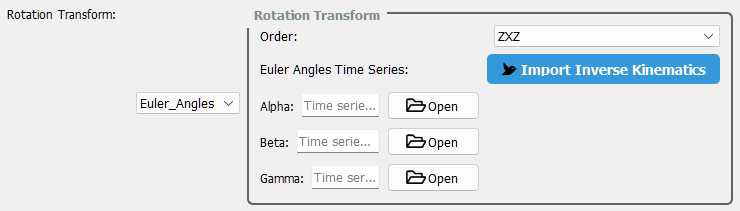
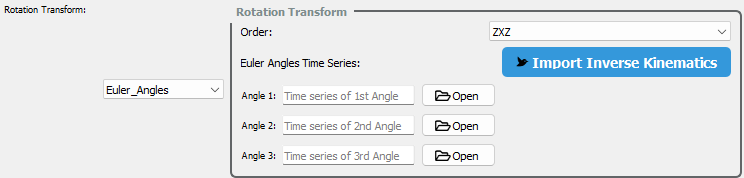
Documentation Review done

Changed region(s): [[0.1243, 0.0281, 1.0, 1.0], [0.0, 0.0281, 0.1554, 0.1124]]

diff --git a/docs/user_guide/methodology.rst b/docs/user_guide/methodology.rst
@@ -3,7 +3,7 @@
 Methodology
 ===========
 
-The **Flapkine** application is a Python-based open-source framework designed to simulate **flapping kinematics** in biomimetic systems. It combines object-oriented architecture, STL-based geometry, and user-defined kinematic models to create rich, interactive 3D simulations.
+The **Flapkine** application is a Python-based open-source framework designed to simulate **flapping wing kinematics** in biomimetic systems. It combines object-oriented architecture, STL-based geometry, and user-defined kinematic models to create rich, interactive 3D simulations.
 
 Flapkine is structured into modular components, each specializing in a distinct stage of simulation — from object loading and transformation to scene assembly and time-series playback.
 
@@ -18,7 +18,6 @@ The core design philosophy of Flapkine is to offer an **intuitive, reusable, and
 
 - Rigid body transformations (translation + rotation)
 - Deformable transformations (flexible flapping motion)
-- Time-dependent playback via animation logic
 
 Its GUI offers researchers a no-code interface to interactively define, preview, and export kinematic models.
 
@@ -92,7 +91,7 @@ Each project contains exactly one inertial frame, associated with the single `Sc
 
   - :math:`O_{E}` is the origin of the inertial frame.
 
-  - :math:`\hat{\mathbf{e}}_{1}, \hat{\mathbf{e}}_{2}, \hat{\mathbf{e}}_{3}` are its unit basis vectors.
+  - :math:`\hat{\mathbf{e}}_{1}, \hat{\mathbf{e}}_{2}, \hat{\mathbf{e}}_{3}` are its unit basis vectors. (In app these are shown as `X`, `Y` and `Z`)
 
 Body Frame
 ^^^^^^^^^^
@@ -102,7 +101,7 @@ The **body frame** is the local coordinate system attached to each `Object3D` an
 
   - :math:`O_{B}` is the origin of the body frame.
 
-  - :math:`\hat{\mathbf{b}}_{1}, \hat{\mathbf{b}}_{2}, \hat{\mathbf{b}}_{3}` are its unit basis vectors.
+  - :math:`\hat{\mathbf{b}}_{1}, \hat{\mathbf{b}}_{2}, \hat{\mathbf{b}}_{3}` are its unit basis vectors. (In app these are shown as `A`, `B` and `C`)
 
 - If no initial alignment in :ref:`Sprite Creator Window <sprite_creator_window>` is specified, the body frame coincides with the inertial frame.
 
@@ -154,7 +153,7 @@ Flapkine is built from the ground up to be:
 
 - **Fully Open Source:** Licensed under a permissive open-source license to encourage academic and industrial collaboration.
 - **Modular and Extensible:** Add custom transformation models, extend GUI windows, or replace back-end rendering logic with ease.
-- **Hybrid Architecture:** Use Flapkine from the GUI **or** via Python scripts and command-line tools.
+- **Hybrid Architecture:** Use Flapkine from the GUI **or** via Python scripts.
 - **Research-Ready:** Designed for reproducibility, publication-quality figures, and scientific visualization workflows.
 
 For details on mathematical models (e.g., forward kinematics, axis projections, and deformation strategies), :doc:`Transform Reference <transform_reference>`.

diff --git a/docs/user_guide/window/inverse_kinematics.rst b/docs/user_guide/window/inverse_kinematics.rst
@@ -12,25 +12,24 @@ The **Inverse Kinematics Window** is designed to extract time‐series Euler ang
 
 ---
 
-FlapKine expects pre-computed 3D coordinates (e.g., from DLTdv [#DLTdv]_) rather than raw 2D images. Use this workflow to import your landmark trajectories:
+FlapKine expects pre-computed 3D coordinates (e.g., from DLTdv [#DLTdv]_) rather than raw multi-view images/video. Use this workflow to import your landmark trajectories:
 
 1. **Prepare your CSV file**
    The file must contain one header row and one data row per time step, with these columns:
 
    .. code-block::
 
-      Ax, Ay, Az, Bx, By, Bz, Cx, Cy, Cz, Dx, Dy, Dz
+      pt1_x, pt1_y, pt1_z, pt2_x, pt2_y, pt2_z, pt3_x, pt3_y, pt3_z, pt4_x, pt4_y, pt4_z
       1.23, 4.56, 7.89, 2.34, 5.67, 8.90, 3.45, 6.78, 9.01, 4.56, 7.89, 0.12
       1.25, 4.58, 7.91, 2.36, 5.69, 8.92, 3.47, 6.80, 9.03, 4.58, 7.91, 0.14
       ...
 
-   - **time**: elapsed time in seconds (or frame index)
-   - **Ax, Ay, Az**: X, Y, Z coordinates of point A
-   - **Bx, By, Bz**: X, Y, Z coordinates of point B
-   - **Cx, Cy, Cz**: X, Y, Z coordinates of point C
-   - **Dx, Dy, Dz**: X, Y, Z coordinates of point D
+   - **pt1_x, pt1_y, pt1_z**: X, Y, Z coordinates of point A
+   - **pt2_x, pt2_y, pt2_z**: X, Y, Z coordinates of point B
+   - **pt3_x, pt3_y, pt3_z**: X, Y, Z coordinates of point C
+   - **pt4_x, pt4_y, pt4_z**: X, Y, Z coordinates of point D
 
-   Points A–D correspond to the four markers shown in the below image and processed in DLTdv.
+   Points (pt1-4) correspond to the four markers (A–D) shown in the below image and processed in DLTdv.
 
 .. image:: ../../assets/images/wing_diagram.jpg
    :alt: Wing Point Configuration
@@ -39,10 +38,13 @@ FlapKine expects pre-computed 3D coordinates (e.g., from DLTdv [#DLTdv]_) rather
 
 ---
 
+   These points were specifically selected as these are aligned along the two body axes (:math:`\hat{b_{1}}` and :math:`\hat{b_{2}}`), the other axis (:math:`\hat{b_{3}}``) is obtained by taking cross-product of these two. Then these are analytically solved to give euler angles.
+   See :ref:`Inverse Kinematics API <inverse_kinematics_code>`
+
 2. **Choose Euler Sequence**
 
 - In the **Euler Order** dropdown, pick your desired rotation sequence (e.g., `ZYX`, `XYZ`, etc.).
-- This order determines how α (alpha), β (beta), and γ (gamma) are computed.
+- This order determines how Angle I, Angle II, and Angle III are computed.
 
 ---
 
@@ -55,7 +57,7 @@ FlapKine expects pre-computed 3D coordinates (e.g., from DLTdv [#DLTdv]_) rather
 
 4. **Compute & Preview Euler Angles**
 
-- Once the sequence is selected, the window auto‐calculates α, β, γ at each timestamp.
+- Once the sequence is selected, the window auto‐calculates Angle I, Angle II, and Angle III at each timestamp.
 - Real‐time line plots appear below the 3D view for each angle component.
 
 ---

diff --git a/docs/index.rst b/docs/index.rst
@@ -4,20 +4,38 @@
 FlapKine
 ========
 
-**FlapKine** is a modular, high-performance PyQt5-based application for 3D forward and inverse kinematics visualization. Designed for **researchers**, **roboticists**, and **engineers**, it enables precise analysis, visualization, and export of flapping-wing dynamics using STL models and camera-tracked experimental data.
+**FlapKine** is a modular, high-performance PyQt5-based application for 3D forward and inverse kinematics visualization. Designed for **researchers**, **roboticists**, and **engineers**, it enables precise visualization, and export of flapping-wing kinematics using STL models and camera-tracked experimental data.
 
 Built with PyQt5 and VTK | Research-grade accuracy | Bio-inspired robotics ready
 
+.. image:: https://joss.theoj.org/papers/10.21105/joss.08158/status.svg
+   :target: https://doi.org/10.1063/5.0232140
+   :alt: JOSS DOI
+
+.. image:: https://img.shields.io/github/license/ihdavjar/FlapKine
+   :alt: GitHub License
+
+.. image:: https://img.shields.io/github/v/release/ihdavjar/FlapKine?include_prereleases
+   :alt: GitHub Release
+
+.. image:: https://img.shields.io/badge/docs-online-brightgreen.svg
+   :target: https://ihdavjar.github.io/FlapKine/
+   :alt: Documentation
+
+.. image:: https://codecov.io/gh/ihdavjar/FlapKine/branch/master/graph/badge.svg
+   :target: https://codecov.io/gh/ihdavjar/FlapKine
+   :alt: Code Coverage
+
 ---
+
 
 🔧 Features
 -----------
 
-- **Inverse Kinematics Engine** – Compute and visualize 3D joint trajectories using custom analytical models.
+- **Inverse Kinematics Engine** – Compute euler angles and visualize 3D point trajectories using custom analytical models.
 - **3D STL Mesh Viewer** – Load STL files and observe real-time kinematic transformations.
 - **Project Configuration** – Customize video resolution, camera settings, lighting parameters, and export options.
-- **Frame Export** – Export high-resolution JPG/PNG renders for each frame of the animation.
-- **In-Situ Rendering** – Generate animations directly in memory without saving intermediate frames, enabling significantly faster execution.
+- **In-Situ Rendering** – Generate animations directly in memory without removing I/O overhead, enabling significantly faster execution.
 
 
 ---

diff --git a/docs/user_guide/window/project_editor.rst b/docs/user_guide/window/project_editor.rst
@@ -63,7 +63,7 @@ Video Animation Widget
 
   - **Playback Controls:** Play, pause, or scrub through the animation timeline.
 
-  - **Visualization Aid:** Helps set camera and lighting configurations for the final video render.
+  - **Visualization Aid:** Helps to set camera and lighting configurations for the final video render.
 
   - **Coordinate Axes:** Displays both body-fixed axes (A, B, C) and inertial axes (X, Y, Z).
 
@@ -79,7 +79,7 @@ Point Selector Widget
 
   - **Flattened Projection:** Automatically adjusts to produce a 2D view for easier point selection.
 
-  - **Adaptive Interface:** Works intelligently for both wing-like structures and other object geometries.
+  - **Adaptive Interface:** Works intelligently for wing-like structures.
 
 ---
 
@@ -92,7 +92,5 @@ Scatter Plot Widget
 - **Key Features:**
 
   - **Trajectory Tracking:** Visualizes the motion path in 3D space over time.
-
-  - **Dynamic Analysis:** Ideal for examining oscillations, vibrations, and deformation patterns.
 
   - **Inertial Axes Reference:** The plot is aligned with the inertial axes (X, Y, Z), providing a global frame of reference for motion.

diff --git a/docs/user_guide/opening_project.rst b/docs/user_guide/opening_project.rst
@@ -12,7 +12,7 @@ To load a saved project:
 
 You’ll be redirected to the **Project Editor Window**.
 
-For layout, features, and tools, see the :doc:`Project Editor Window <window/project_editor_window>`.
+For layout, features, and tools, see the :ref:`Project Editor Window <project_editor_window>`.
 
 ⚙ Rendering Options
 ---------------------
@@ -24,6 +24,6 @@ For layout, features, and tools, see the :doc:`Project Editor Window <window/pro
   - In-situ memory rendering (no disk I/O bottlenecks)
   - Multithreading using ``QThreadPool``
   - High-performance VTK pipeline
-  - Non-essential UI widgets are disabled during rendering
+  - Non-essential UI widgets are disabled during rendering to reduce the overall load while rendering.
 
 For render configuration options, see the :doc:`Render Configuration <render_config>`

diff --git a/docs/installation.rst b/docs/installation.rst
@@ -4,7 +4,7 @@
 🔹 Option A: Windows Installer
 ------------------------------
 
-Download the latest release from the `Releases Page <https://github.com/ihdavjar/FlapKine/releases>`_ and run the installer. This will install FlapKine on your system with optional desktop shortcuts.
+Download the latest release from the `Releases Page <https://github.com/ihdavjar/FlapKine/releases>`_ and run the installer. This will install FlapKine on your system with a desktop shortcuts.
 
 🔹 Option B: Developer Mode (Python)
 ------------------------------------

diff --git a/docs/user_guide/window/main_window.rst b/docs/user_guide/window/main_window.rst
@@ -23,6 +23,6 @@ Buttons
 Navigation
 ----------
 
-Once a project is selected or created, the interface redirects you to the **Project Editor Window**.
+Once a project is selected or created, the interface redirects you to the :doc:`Project Editor Window <project_editor>`.
 
-➡ See: :doc:`Project Editor Window <project_editor>`
+If create project option is selected the interface redirects you to the :ref:`Project Creator Window <project_creator_window>`.

diff --git a/docs/examples/3_DOF_1.rst b/docs/examples/3_DOF_1.rst
@@ -148,3 +148,7 @@ However, make sure to use the corresponding `resources` files provided with this
    *Development of a Kinematical Model to Study the Aerodynamics of Flapping-Wings.*
    International Journal of Micro Air Vehicles, 3(2), 61–88, 2011.
    https://doi.org/10.1260/1756-8293.3.2.61
+
+.. rubric:: Download
+
+Get the resource from: `Download Link <https://example.com/your-download-link>`_

diff --git a/docs/examples/3_DOF_2.rst b/docs/examples/3_DOF_2.rst
@@ -145,3 +145,7 @@ However, make sure to use the corresponding `resources` files provided with this
    *Development of a Kinematical Model to Study the Aerodynamics of Flapping-Wings.*
    International Journal of Micro Air Vehicles, 3(2), 61–88, 2011.
    https://doi.org/10.1260/1756-8293.3.2.61
+
+.. rubric:: Download
+
+Get the resource from: `Download Link <https://example.com/your-download-link>`_

diff --git a/docs/user_guide/window_reference.rst b/docs/user_guide/window_reference.rst
@@ -20,7 +20,7 @@ This section describes all interface windows used in Flapkine. Each has a dedica
    * - :doc:`Sprite Creator Window <window/sprite_creator>`
      - Define object properties and orientation
    * - :doc:`InverseKinematics Window <window/inverse_kinematics>`
-     - For solving IK problems
+     - For solving Inverse Kinematics problems
 
 .. toctree::
    :hidden:

diff --git a/docs/examples/2_DOF_Translation.rst b/docs/examples/2_DOF_Translation.rst
@@ -217,3 +217,6 @@ To manually recreate the above project from scratch:
 
 12. Finally, click the **Create Project** button. This will generate the same project structure and configuration as in the original `2_DOF_Translation/` folder provided in `project.zip`.
 
+.. rubric:: Download
+
+Get the resource from: `Download Link <https://example.com/your-download-link>`_

diff --git a/docs/examples/1_DOF_1.rst b/docs/examples/1_DOF_1.rst
@@ -188,3 +188,6 @@ To manually recreate the above project from scratch:
 
 12. Finally, click the **Create Project** button. This will generate the same project structure and configuration as in the original `1_DOF_1/` folder provided in `project.zip`.
 
+.. rubric:: Download
+
+Get the resource from: `Download Link <https://example.com/your-download-link>`_
